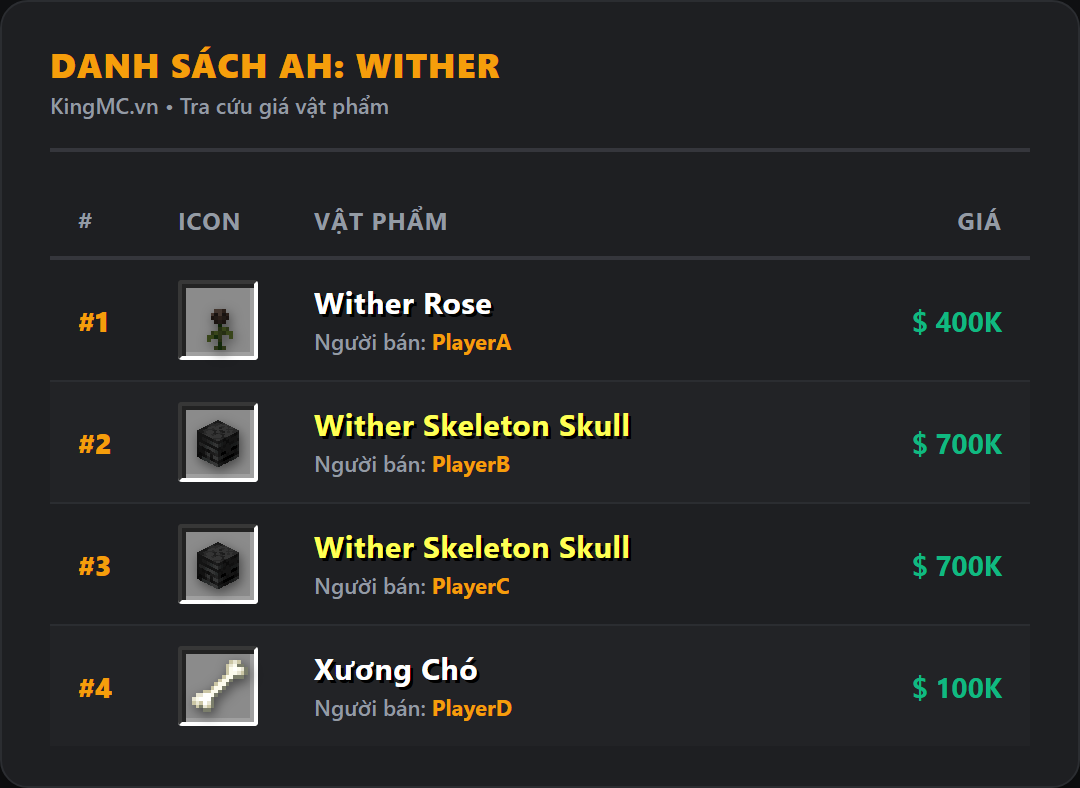
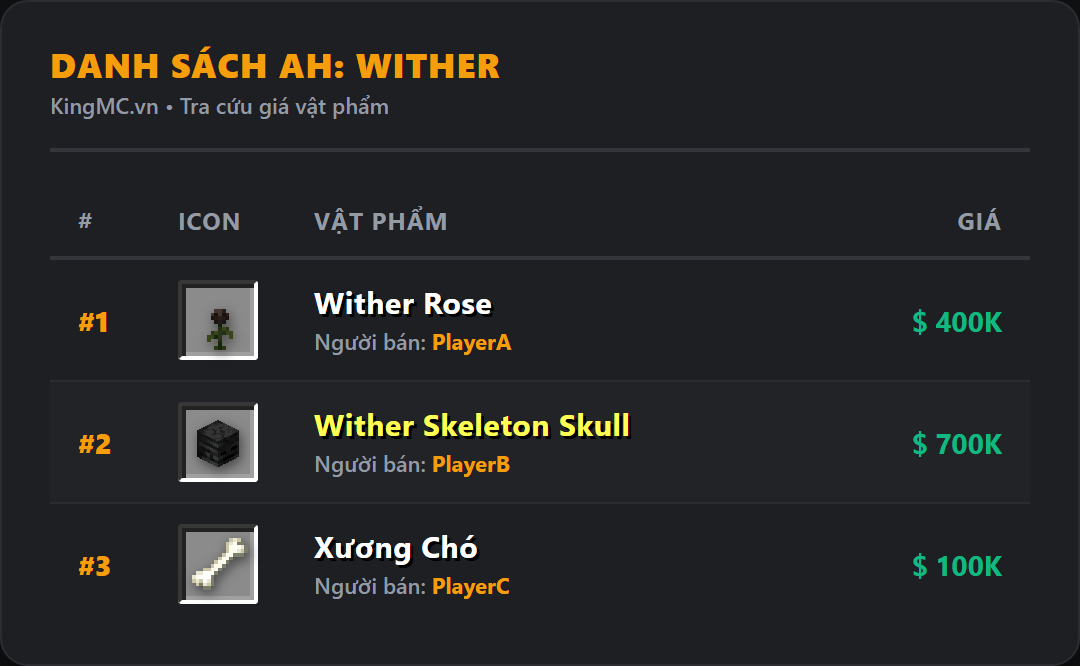
BinhLH_use_icon_query_for_order_item_name
Derive item display name directly from iconItemQuery when display name is an order prefix or fallback

diff --git a/helpers/renderHelper.js b/helpers/renderHelper.js
@@ -236,22 +236,6 @@ async function renderTableImage(title, itemQuery, items, type = 'order') {
     const rawDisplay = item.displayName || '';
     const cleanDisplay = cleanMinecraftText(rawDisplay);
 
-    let itemNameHtml = '';
-    let iconItemQuery = '';
-
-    const lowerDisplay = cleanDisplay.toLowerCase();
-    const isOrderPrefix = lowerDisplay.includes('đơn hàng') || lowerDisplay.includes('don hang') || lowerDisplay.includes('order');
-
-    if (rawDisplay && !isOrderPrefix && cleanDisplay !== 'Item') {
-      itemNameHtml = formatMinecraftTextToHtml(rawDisplay, '#ffffff');
-    } else if (rawName && rawName !== 'player_head' && rawName !== 'skull' && rawName !== 'air') {
-      itemNameHtml = formatMinecraftTextToHtml(formatItemDisplayName(rawName), '#ffffff');
-    } else if (itemQuery) {
-      itemNameHtml = formatMinecraftTextToHtml(formatItemDisplayName(itemQuery), '#ffffff');
-    } else {
-      itemNameHtml = `<span style="color: #ffffff;">Vật phẩm</span>`;
-    }
-
     if (rawName && rawName !== 'player_head' && rawName !== 'skull' && rawName !== 'air') {
       iconItemQuery = rawName;
     } else if (itemQuery) {
@@ -259,6 +243,17 @@ async function renderTableImage(title, itemQuery, items, type = 'order') {
     }
 
     const iconUrl = getItemIconUrl(iconItemQuery);
+
+    const lowerDisplay = cleanDisplay.toLowerCase();
+    const isOrderPrefix = lowerDisplay.includes('đơn hàng') || lowerDisplay.includes('don hang') || lowerDisplay.includes('order');
+
+    if (rawDisplay && !isOrderPrefix && cleanDisplay !== 'Item' && cleanDisplay !== 'Vật phẩm') {
+      itemNameHtml = formatMinecraftTextToHtml(rawDisplay, '#ffffff');
+    } else {
+      // Dùng trực tiếp ID đã dùng lấy hình (iconItemQuery) để tạo tên hiển thị vật phẩm
+      const derivedName = formatItemDisplayName(iconItemQuery);
+      itemNameHtml = formatMinecraftTextToHtml(derivedName, '#ffffff');
+    }
 
     let subInfoHtml = '';
     if (type === 'order') {
